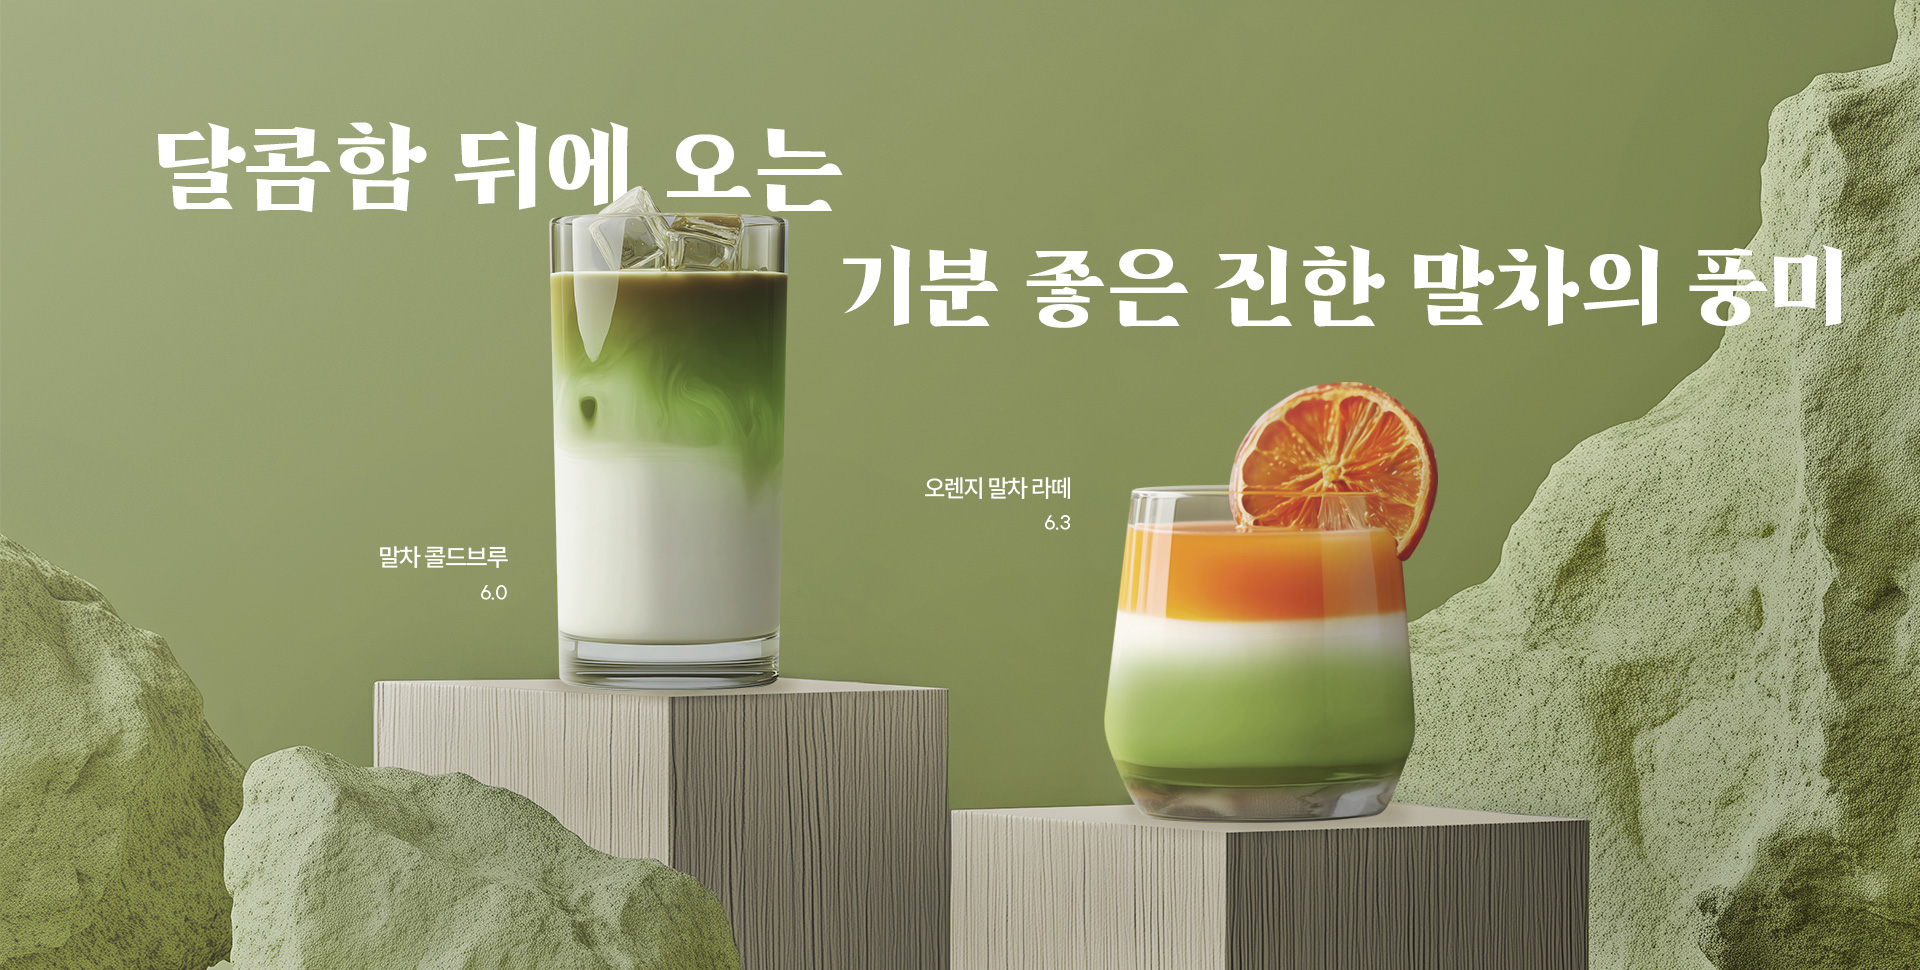
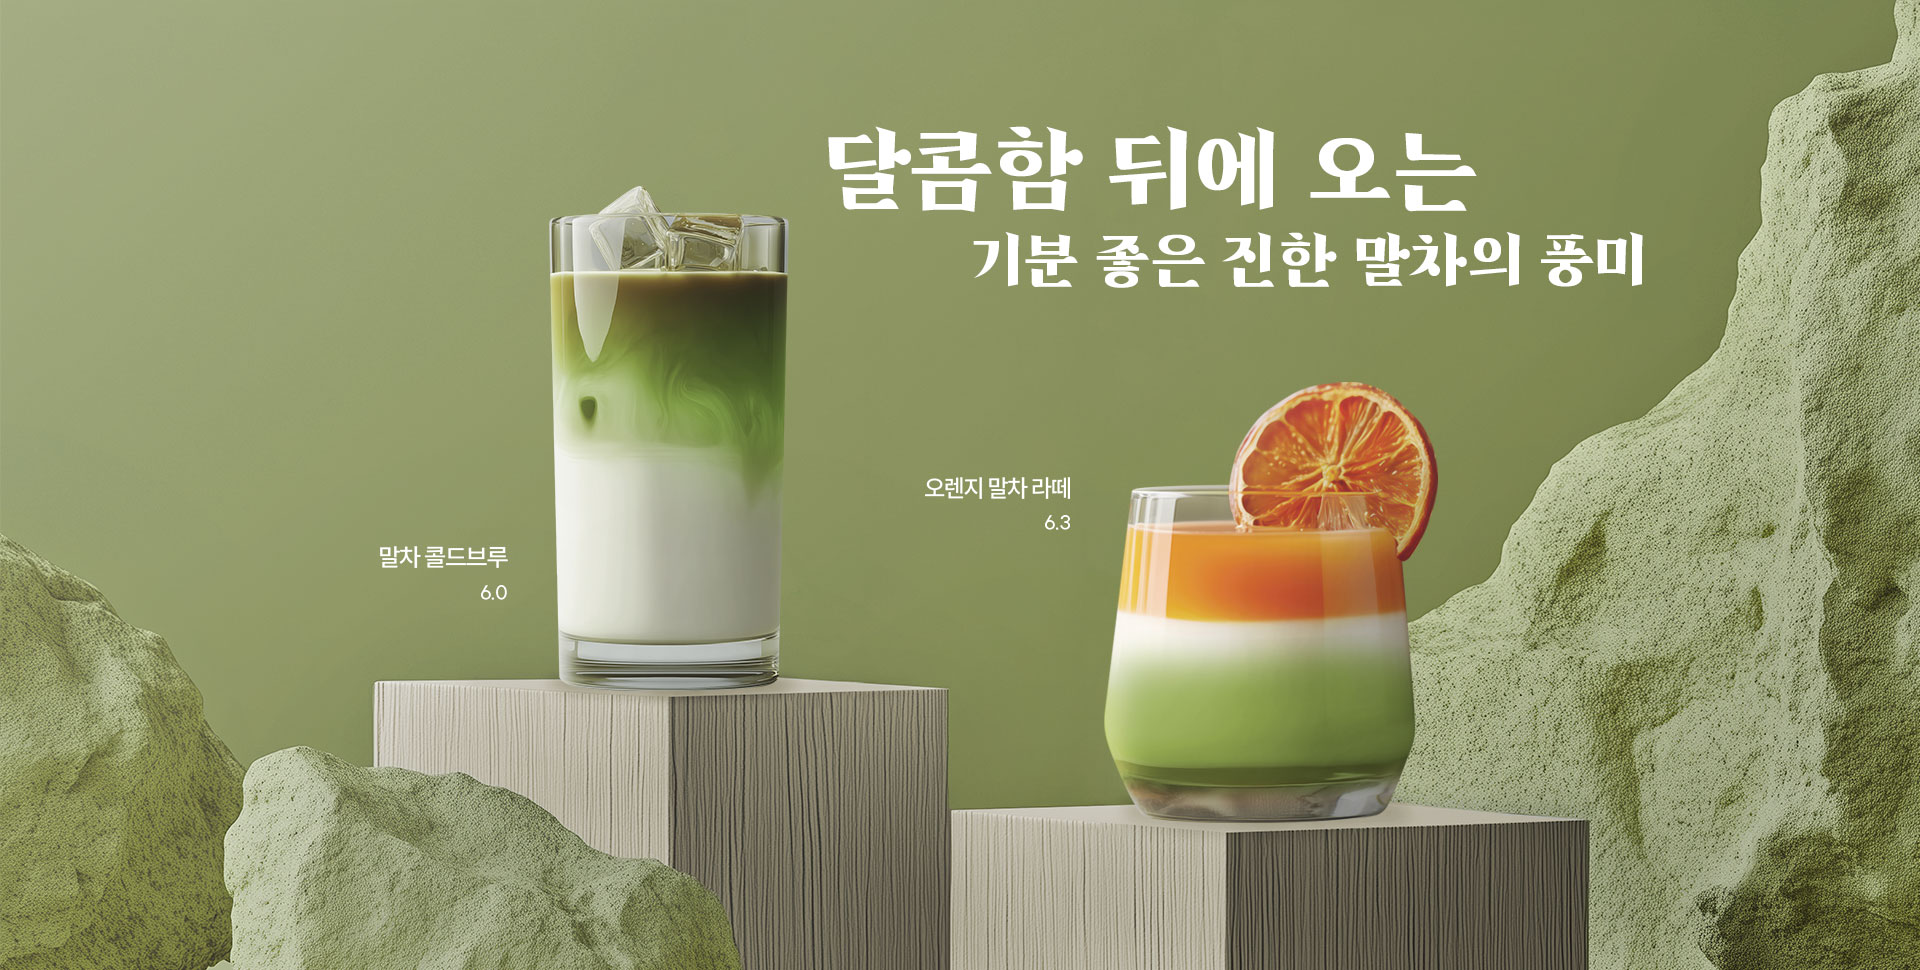
d

Changed region(s): [[0.0625, 0.1237, 0.9688, 0.3402]]

diff --git a/index.html b/index.html
@@ -22,7 +22,7 @@
             <div class="swiper-wrapper">
                 <!-- Slides -->
                 <div class="swiper-slide">
-                    <img src="./img/slide1-pcc.jpg" alt="DAONCHA coffee main matcha banner" class="pc">
+                    <img src="./img/slide1-pc.jpg" alt="DAONCHA coffee main matcha banner" class="pc">
                     <img src="./img/slide1-tab.jpg" alt="DAONCHA coffee main matcha banner" class="tab">
                     <img src="./img/slide1-mo.jpg" alt="DAONCHA coffee main matcha banner" class="mo">
                 </div>
